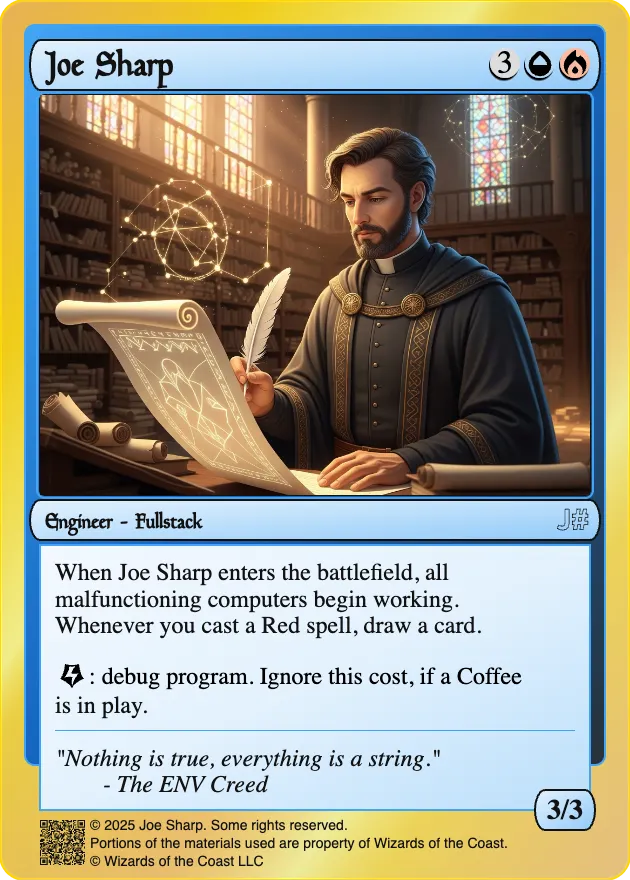
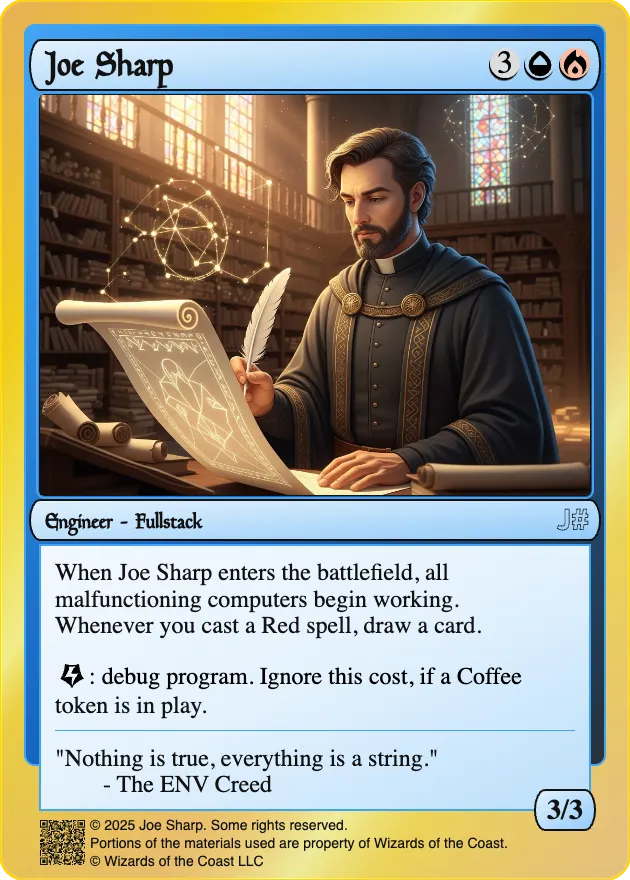
fix: Update Joe Sharp card rules text to specify "Coffee token"

Changed region(s): [[0.0905, 0.7977, 0.6937, 0.9205]]

diff --git a/README.md b/README.md
@@ -232,7 +232,7 @@ mtg_card_maker generate_card \
   --name="Joe Sharp" \
   --mana-cost=3UR \
   --type-line="Engineer - Fullstack" \
-  --rules-text='When Joe Sharp enters the battlefield, all malfunctioning computers begin working.\nWhenever you cast a Red spell, draw a card.\n\n{E}: debug program. Ignore this cost, if a Coffee is in play.\n\n' \
+  --rules-text='When Joe Sharp enters the battlefield, all malfunctioning computers begin working.\nWhenever you cast a Red spell, draw a card.\n\n{E}: debug program. Ignore this cost, if a Coffee token is in play.\n\n' \
   --flavor-text='\"Nothing is true, everything is a string.\"\n\t\t\t\t- The ENV Creed' \
   --power=3 \
   --toughness=3 \
